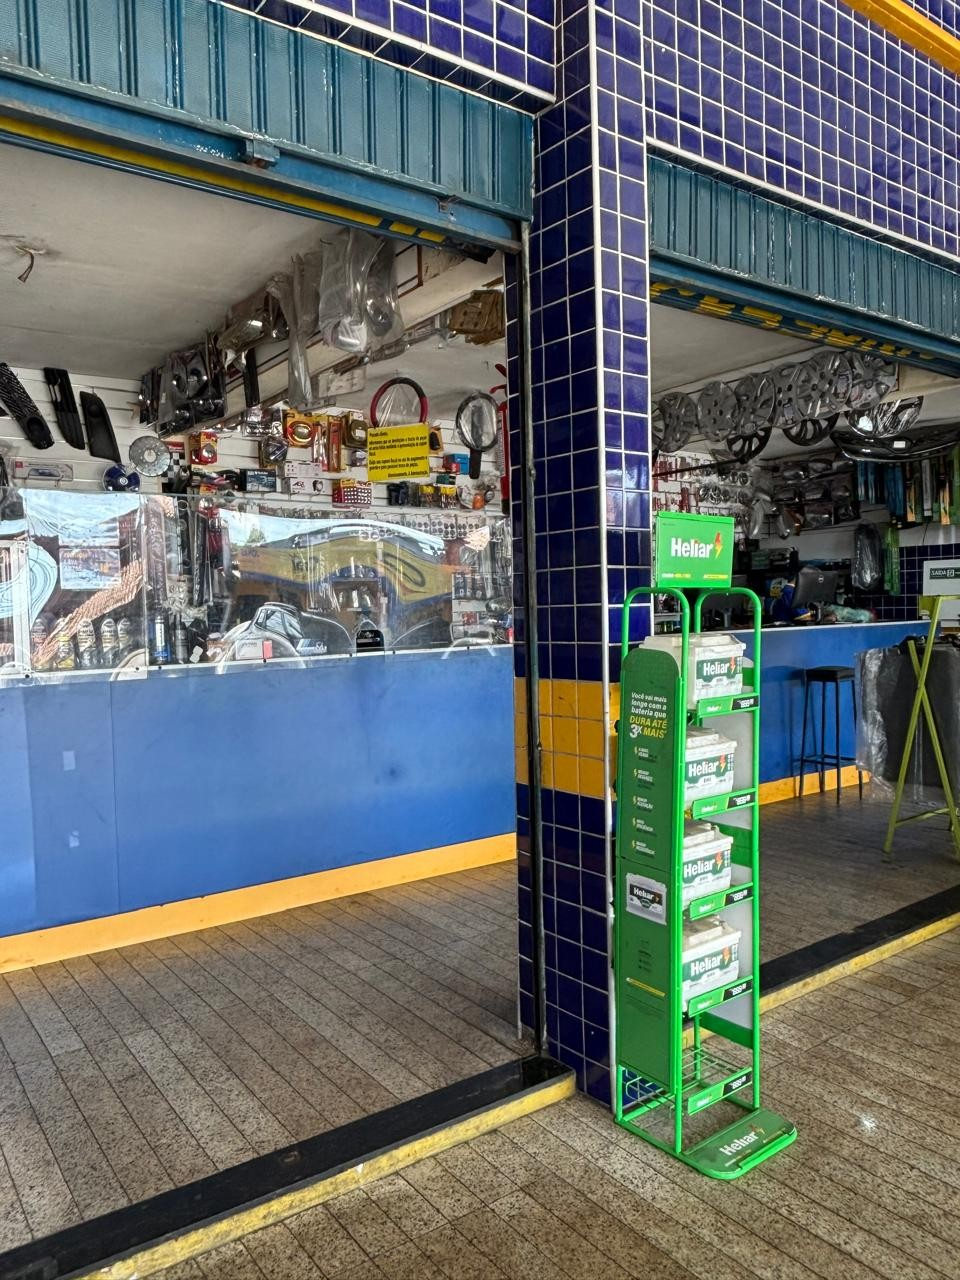
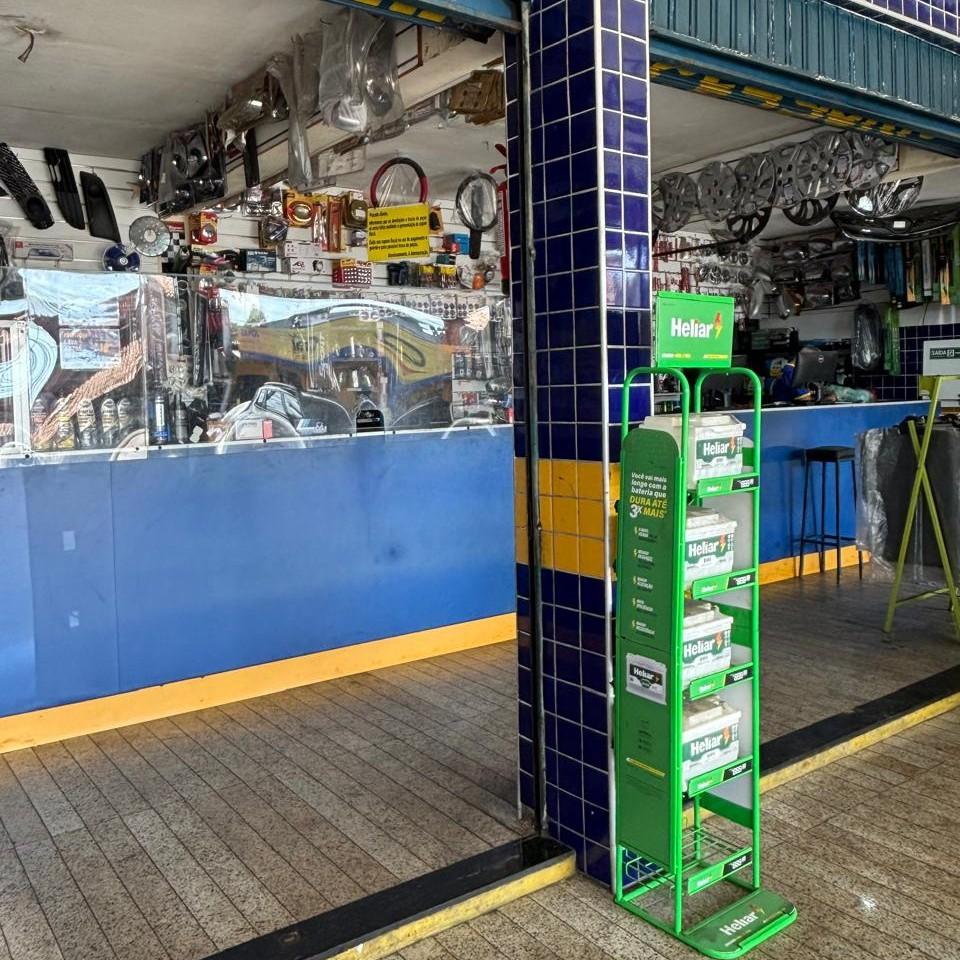
Deixa as fotos da seção Estrutura quadradas
Recorte manual 960x960: oficina com carro, elevador e mural; loja com a
parede de peças, o balcão e o expositor de baterias inteiro.

Claude-Session: https://claude.ai/code/session_01WEhpVgMpafTho6Z5ct1wYJ

diff --git a/FOTOS.md b/FOTOS.md
@@ -7,12 +7,12 @@ As fotos reais da oficina e do balcão já estão no site. Para trocar alguma:
 
 | Arquivo | Onde aparece | Proporção | Tamanho mínimo | Dica |
 |---|---|---|---|---|
-| `oficina.jpg` | Seção "Estrutura" | 3:4 (vertical) | 960 × 1280 px | Oficina limpa, com elevadores e ferramentas organizadas |
-| `balcao.jpg` | Seção "Estrutura" | 3:4 (vertical) | 960 × 1280 px | Balcão da loja com as prateleiras de peças ao fundo |
+| `oficina.jpg` | Seção "Estrutura" | 1:1 (quadrada) | 960 × 960 px | Oficina limpa, com elevadores e ferramentas organizadas |
+| `balcao.jpg` | Seção "Estrutura" | 1:1 (quadrada) | 960 × 960 px | Balcão da loja com as prateleiras de peças ao fundo |
 
 Recomendações:
 
 - Formato JPG, na melhor qualidade que a câmera do celular oferecer. Não precisa reduzir, o site faz isso.
-- Fotos horizontais ou verticais conforme a tabela; o recorte é automático (centro da imagem).
+- As fotos são quadradas: recorte antes de salvar, deixando o assunto principal no centro.
 - Se aparecerem pessoas (equipe ou clientes), peça autorização de uso de imagem.
 - Placas de carro de clientes devem aparecer borradas.
